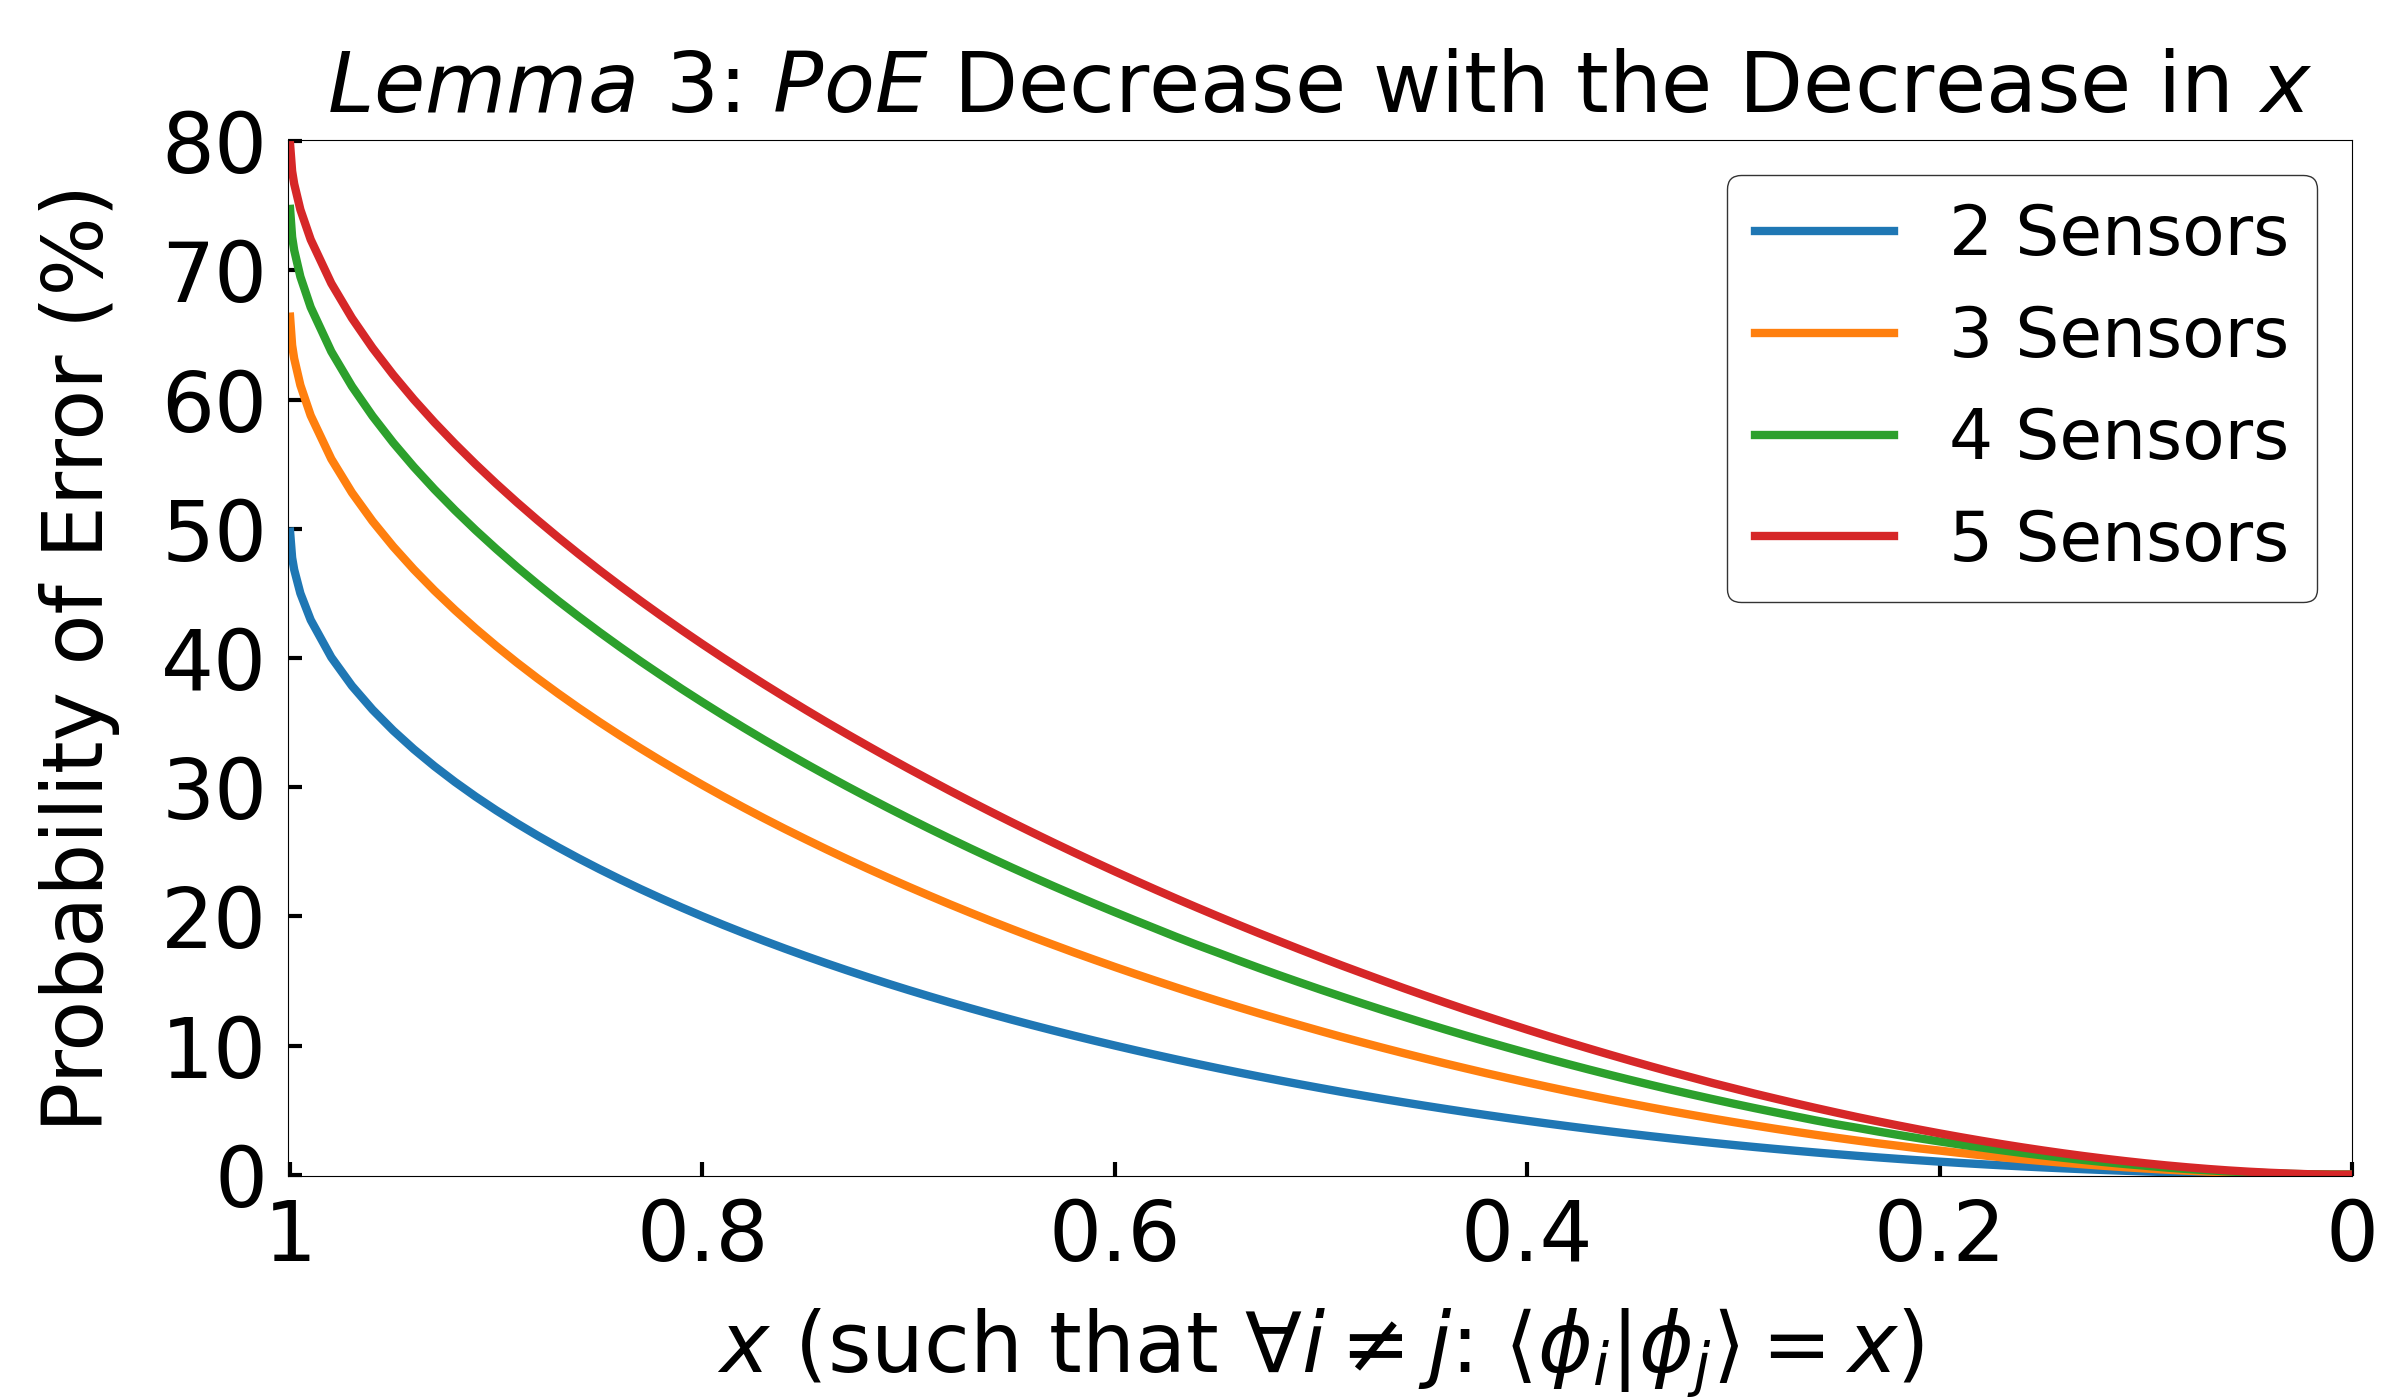
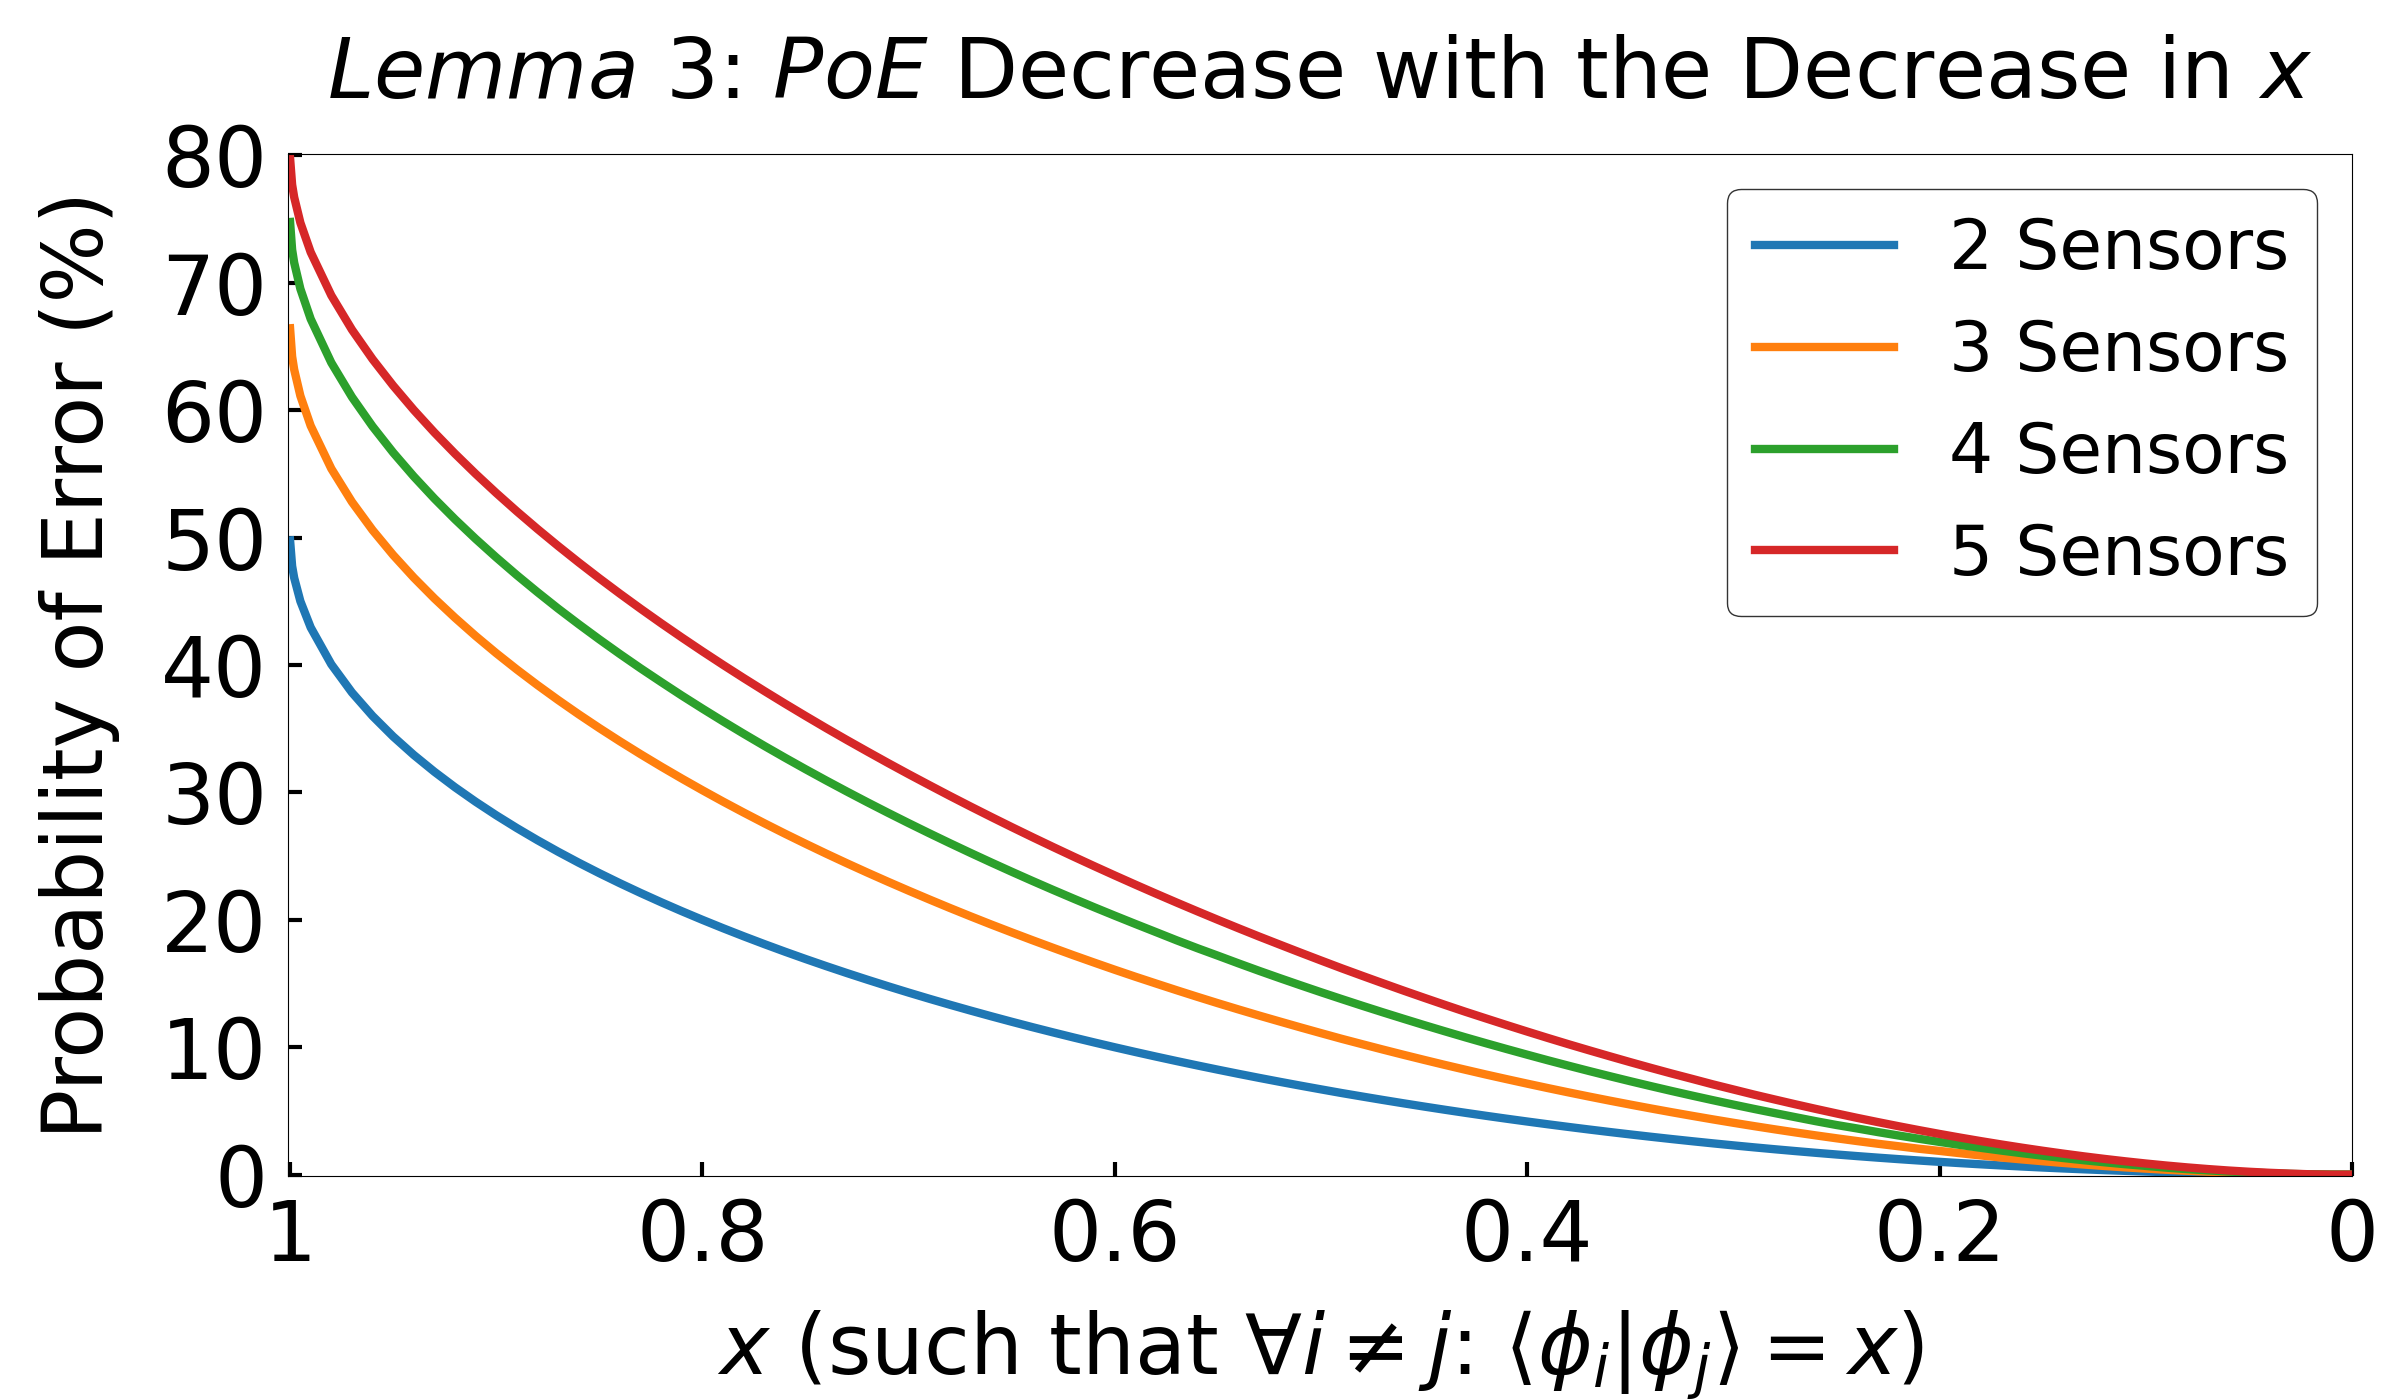
update conjecture lemma plots

diff --git a/plot2.py b/plot2.py
@@ -156,16 +156,16 @@ class Plot:
     def lemma2(data, filename):
         plt.rcParams['font.size'] = 45
         fig, ((ax0, ax1), (ax2, ax3)) = plt.subplots(2, 2, figsize=(22, 15))
-        fig.subplots_adjust(left=0.14, right=0.97, top=0.89, bottom=0.11, wspace=0.4, hspace=0.3)
+        fig.subplots_adjust(left=0.14, right=0.97, top=0.88, bottom=0.12, wspace=0.4, hspace=0.3)
         
-        boxprops = dict(linewidth=3)
-        medianprops = dict(linewidth=3)
-        whiskerprops = dict(linewidth=3)
-        capprops = dict(linewidth=3)
+        boxprops = dict(linewidth=5)
+        medianprops = dict(linewidth=5)
+        whiskerprops = dict(linewidth=5)
+        capprops = dict(linewidth=5)
 
         n = 2
         print(data[f'n{n}.perm'][0], min(data[f'n{n}.avg']), max(data[f'n{n}.avg']))
-        ax0.hlines(y=data[f'n{n}.perm'][0], xmin=0.85, xmax=1.15, linewidth=3)
+        ax0.hlines(y=data[f'n{n}.perm'][0], xmin=0.85, xmax=1.15, linewidth=5)
         ax0.boxplot(data[f'n{n}.avg'], whis=(0, 100), widths=0.2, boxprops=boxprops, medianprops=medianprops, whiskerprops=whiskerprops, capprops=capprops)
         xticks = [1]
         ax0.set_xticks(xticks)
@@ -177,7 +177,7 @@ class Plot:
         ax0.tick_params(axis='y', direction='in', length=8, width=2, pad=15)
         n = 3
         print(data[f'n{n}.perm'][0], min(data[f'n{n}.avg']), max(data[f'n{n}.avg']))
-        ax1.hlines(y=data[f'n{n}.perm'][0], xmin=0.85, xmax=1.15, linewidth=3)
+        ax1.hlines(y=data[f'n{n}.perm'][0], xmin=0.85, xmax=1.15, linewidth=5)
         ax1.boxplot(data[f'n{n}.avg'], whis=(0, 100), widths=0.2, boxprops=boxprops, medianprops=medianprops, whiskerprops=whiskerprops, capprops=capprops)
         ax1.set_xticks(xticks)
         ax1.set_xticklabels([f'{x+2}' for x in xticks])
@@ -188,7 +188,7 @@ class Plot:
         ax1.tick_params(axis='y', direction='in', length=8, width=2, pad=15)
         n = 4
         print(data[f'n{n}.perm'][0], min(data[f'n{n}.avg']), max(data[f'n{n}.avg']))
-        ax2.hlines(y=data[f'n{n}.perm'][0], xmin=0.85, xmax=1.15, linewidth=3)
+        ax2.hlines(y=data[f'n{n}.perm'][0], xmin=0.85, xmax=1.15, linewidth=5)
         ax2.boxplot(data[f'n{n}.avg'], whis=(0, 100), widths=0.2, boxprops=boxprops, medianprops=medianprops, whiskerprops=whiskerprops, capprops=capprops)
         ax2.set_xticks(xticks)
         ax2.set_xticklabels([f'{x+3}' for x in xticks])
@@ -199,7 +199,7 @@ class Plot:
         ax2.tick_params(axis='y', direction='in', length=8, width=2, pad=15)
         n = 5
         print(data[f'n{n}.perm'][0], min(data[f'n{n}.avg']), max(data[f'n{n}.avg']))
-        ax3.hlines(y=data[f'n{n}.perm'][0], xmin=0.85, xmax=1.15, linewidth=3)
+        ax3.hlines(y=data[f'n{n}.perm'][0], xmin=0.85, xmax=1.15, linewidth=5)
         ax3.boxplot(data[f'n{n}.avg'], whis=(0, 100), widths=0.2, boxprops=boxprops, medianprops=medianprops, whiskerprops=whiskerprops, capprops=capprops)
         ax3.set_xticks(xticks)
         ax3.set_xticklabels([f'{x+4}' for x in xticks])
@@ -218,7 +218,7 @@ class Plot:
     @staticmethod
     def lemma3(data, filename):
         fig, ax = plt.subplots(1, 1, figsize=(24, 14))
-        fig.subplots_adjust(left=0.12, right=0.98, top=0.9, bottom=0.16)
+        fig.subplots_adjust(left=0.12, right=0.98, top=0.89, bottom=0.16)
 
         X = np.linspace(0, 0.99, 100)
         X = np.append(X, [0.995, 0.998, 0.999, 0.99999])
@@ -242,9 +242,9 @@ class Plot:
         ax.set_ylim([-0.001, 0.801])
         ax.tick_params(axis='x', direction='in', length=10, width=3, pad=15)
         ax.tick_params(axis='y', direction='in', length=10, width=3, pad=15)
-        ax.set_xlabel('$x$ (such that $\\forall i \\neq j$: $\langle \phi_i \| \phi_j \\rangle = x$)', labelpad=20)
+        ax.set_xlabel('$x$ (such that $\\forall i \\neq j$: $\langle \phi_i \| \phi_j \\rangle = x$)', labelpad=22)
         ax.set_ylabel('Probability of Error (%)', labelpad=30)
-        ax.set_title('$Lemma\ 3$: $PoE$ Decrease with the Decrease in $x$', pad=20, fontsize=60)
+        ax.set_title('$Lemma\ 3$: $PoE$ Decrease with the Decrease in $x$', pad=40, fontsize=60)
         ax.invert_xaxis()
         fig.savefig(filename)
 
@@ -490,8 +490,8 @@ def conjecture():
 
 if __name__ == '__main__':
     # vary_theta()
-    methods_similar()
+    # methods_similar()
     # lemma2()
-    # lemma3()
+    lemma3()
     # conjecture()
     
